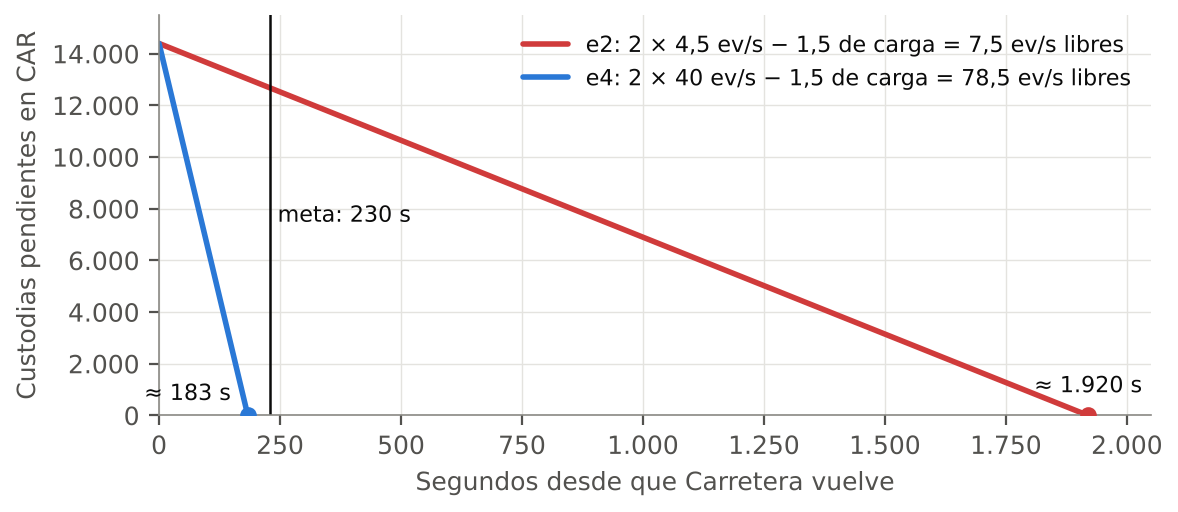
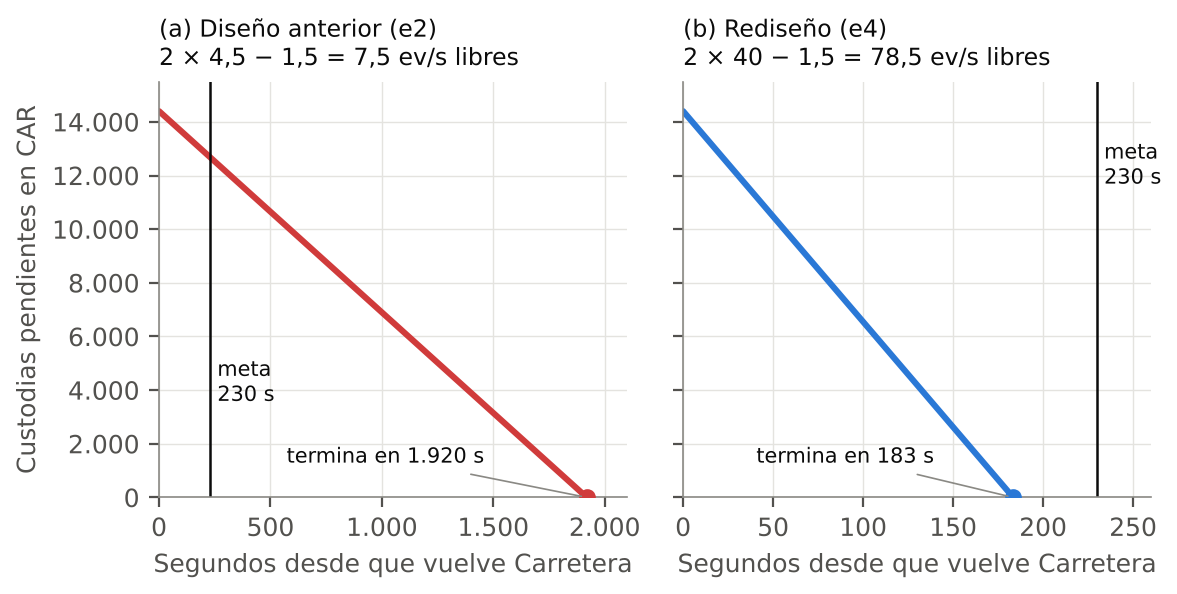
[D4] Figuras de rezago y disponibilidad en dos paneles; beta con semilla 1000
Claude-Session: https://claude.ai/code/session_01ViMf3YAR9bfEnxdr9RZMQp

diff --git a/figures.py b/figures.py
@@ -89,63 +89,76 @@ def chain():
 
 
 def availability():
-    """Figure 2: downtime per year of each structure against the 99.9 % threshold."""
-    data = [  # label, A %, low, high
-        ('e1 · diseño inicial', 99.305, 99.285, 99.325),
-        ('e2 · cálculo a mano\n(sin balanceadores)', 99.948, 99.943, 99.952),
-        ('e2 · con sus balanceadores', 99.549, 99.536, 99.563),
-        ('e2 + T-R1', 99.906, 99.900, 99.912),
-        ('e2 + T-R2', 99.563, 99.549, 99.577),
-        ('e4 · T-R1 + T-R2', 99.957, 99.953, 99.961),
-    ]
+    """Figure: downtime per year of each structure against the 99.9 % threshold, in two panels:
+    (a) before the redesign, (b) contribution of each tactic of iteration 4."""
     hours = lambda a: (100 - a) / 100 * 8760
-    fig, ax = plt.subplots(figsize=(6.4, 2.9))
-    ys = range(len(data))[::-1]
-    for y, (label, a, lo, hi) in zip(ys, data):
-        v = hours(a)
-        if 'mano' in label:
-            color = '#b9b8b3'          # not a real result: ignores the balancers
-        elif lo >= 99.92:
-            color = GOOD
-        elif hi >= 99.9:
-            color = ORANGE             # inconclusive or without margin
-        else:
-            color = BAD
-        ax.barh(y, v, height=0.55, color=color, zorder=2)
-        ax.errorbar(v, y, xerr=[[v - hours(hi)], [hours(lo) - v]], fmt='none', ecolor=INK, elinewidth=0.8, capsize=2, zorder=3)
-        ax.text(max(hours(lo) + 0.8, 10.0), y, f'{es(v)} h  ({es(a, 3)} %)', va='center', fontsize=8, color=INK)
-    ax.set_yticks(list(ys))
-    ax.set_yticklabels([d[0] for d in data])
-    ax.axvline(hours(99.9), color=INK, lw=0.9, ls='-', zorder=4, label='umbral 99,9 % (8,8 h/año)')
-    ax.axvline(hours(99.92), color=INK2, lw=0.8, ls=':', zorder=4, label='con margen 99,92 % (7,0 h/año)')
-    ax.legend(loc='lower right', frameon=False, fontsize=8)
-    ax.set_xlabel('Horas al año con la cadena de levante caída (menos es mejor)')
-    ax.set_xlim(0, 72)
-    ax.grid(axis='x', color=GRID, lw=0.5, zorder=0)
-    ax.tick_params(axis='y', length=0)
+    panels = [
+        ('(a) Antes del rediseño: la redundancia de e2 no alcanza por los balanceadores', [
+            ('e1 · diseño inicial, sin copias', 99.305, 99.285, 99.325),
+            ('e2 · cálculo a mano\n(ignora los balanceadores)', 99.948, 99.943, 99.952),
+            ('e2 · con sus balanceadores', 99.549, 99.536, 99.563)]),
+        ('(b) Rediseño: cada táctica por separado y las dos juntas', [
+            ('e2 (punto de partida)', 99.549, 99.536, 99.563),
+            ('e2 + T-R1\n(balanceadores en pareja)', 99.906, 99.900, 99.912),
+            ('e2 + T-R2\n(dos zonas, β = 0,05)', 99.563, 99.549, 99.577),
+            ('e4 = T-R1 + T-R2', 99.957, 99.953, 99.961)]),
+    ]
+    fig, axes = plt.subplots(2, 1, figsize=(6.4, 5.0), gridspec_kw={'height_ratios': [3, 4], 'hspace': 0.55})
+    for ax, (title, data) in zip(axes, panels):
+        ys = range(len(data))[::-1]
+        for y, (label, a, lo, hi) in zip(ys, data):
+            v = hours(a)
+            if 'mano' in label:
+                color = '#b9b8b3'
+            elif lo >= 99.92:
+                color = GOOD
+            elif hi >= 99.9:
+                color = ORANGE
+            else:
+                color = BAD
+            ax.barh(y, v, height=0.55, color=color, zorder=2)
+            ax.errorbar(v, y, xerr=[[v - hours(hi)], [hours(lo) - v]], fmt='none', ecolor=INK, elinewidth=0.8,
+                        capsize=2, zorder=3)
+            ax.text(max(hours(lo) + 0.8, 10.0), y, f'{es(v)} h al año  ({es(a, 3)} %)', va='center', fontsize=8, color=INK)
+        ax.set_yticks(list(ys))
+        ax.set_yticklabels([d[0] for d in data], fontsize=8)
+        ax.axvline(hours(99.9), color=INK, lw=0.9, zorder=4, label='meta 99,9 % (8,8 h/año)')
+        ax.axvline(hours(99.92), color=INK2, lw=0.8, ls=':', zorder=4, label='con margen 99,92 % (7,0 h/año)')
+        ax.set_xlim(0, 72)
+        ax.grid(axis='x', color=GRID, lw=0.5, zorder=0)
+        ax.tick_params(axis='y', length=0)
+        ax.set_title(title, fontsize=9, loc='left', color=INK, fontweight='bold')
+    axes[1].set_xlabel('Horas al año con la cadena de levante caída (menos es mejor)')
+    axes[1].legend(loc='upper center', bbox_to_anchor=(0.45, -0.3), ncol=2, frameon=False, fontsize=7.5)
     save(fig, 'f2-disponibilidad.png')
 
 
 def backlog():
-    """Figure 3: how the custody backlog drains in e2 and e4 (fluid view, 14 400 events)."""
-    fig, ax = plt.subplots(figsize=(6.4, 2.6))
+    """Figure: how the custody backlog (14 400 events) drains in CAR, one panel per design."""
     n = 14400
-    for label, free, color in [('e2: 2 × 4,5 ev/s − 1,5 de carga = 7,5 ev/s libres', 7.5, BAD),
-                               ('e4: 2 × 40 ev/s − 1,5 de carga = 78,5 ev/s libres', 78.5, BLUE)]:
+    fig, axes = plt.subplots(1, 2, figsize=(6.4, 2.7), sharey=True, gridspec_kw={'wspace': 0.12})
+    for ax, (title, free, color, xmax, step) in zip(axes, [
+            ('(a) Diseño anterior (e2)\n2 × 4,5 − 1,5 = 7,5 ev/s libres', 7.5, BAD, 2100, 500),
+            ('(b) Rediseño (e4)\n2 × 40 − 1,5 = 78,5 ev/s libres', 78.5, BLUE, 260, 50)]):
         t = n / free
-        ax.plot([0, t], [n, 0], color=color, lw=2, solid_capstyle='round', label=label)
+        ax.plot([0, t], [n, 0], color=color, lw=2.2, solid_capstyle='round')
         ax.plot([t], [0], 'o', color=color, ms=5, zorder=3)
-        ax.text(t - 35 if free > 10 else t, 600 if free > 10 else 900, f'≈ {es(t, 0)} s', ha='right' if free > 10 else 'center', fontsize=8, color=INK)
-    ax.axvline(230, color=INK, lw=0.9)
-    ax.text(245, 7500, 'meta: 230 s', fontsize=8, color=INK)
-    ax.set_xlim(0, 2050)
-    ax.set_ylim(0, 15500)
-    ax.set_xlabel('Segundos desde que Carretera vuelve')
-    ax.set_ylabel('Custodias pendientes en CAR')
-    ax.yaxis.set_major_formatter(matplotlib.ticker.FuncFormatter(lambda v, _: es(v, 0)))
-    ax.xaxis.set_major_formatter(matplotlib.ticker.FuncFormatter(lambda v, _: es(v, 0)))
-    ax.grid(color=GRID, lw=0.5, zorder=0)
-    ax.legend(frameon=False, fontsize=8, loc='upper right')
+        ax.axvline(230, color=INK, lw=0.9)
+        if free < 10:
+            ax.text(230 + xmax * 0.015, 5200, 'meta\n230 s', fontsize=7.5, color=INK, va='top')
+        else:
+            ax.text(230 + xmax * 0.015, 13300, 'meta\n230 s', fontsize=7.5, color=INK, va='top')
+        ax.annotate(f'termina en {es(t, 0)} s', (t, 0), xytext=(t * 0.76, 1500), ha='right', va='center',
+                    fontsize=7.5, color=INK, arrowprops=dict(arrowstyle='-', color=MUTED, lw=0.6))
+        ax.set_xlim(0, xmax)
+        ax.set_xticks(range(0, xmax + 1, step))
+        ax.set_ylim(0, 15500)
+        ax.set_title(title, fontsize=8.5, loc='left', color=INK)
+        ax.set_xlabel('Segundos desde que vuelve Carretera')
+        ax.xaxis.set_major_formatter(matplotlib.ticker.FuncFormatter(lambda v, _: es(v, 0)))
+        ax.grid(color=GRID, lw=0.5, zorder=0)
+    axes[0].set_ylabel('Custodias pendientes en CAR')
+    axes[0].yaxis.set_major_formatter(matplotlib.ticker.FuncFormatter(lambda v, _: es(v, 0)))
     save(fig, 'f3-rezago.png')
 
 
@@ -205,17 +218,17 @@ def capacity():
 
 
 def beta():
-    """Figure 6: P1 against the common-cause fraction beta (e4 structure)."""
-    xs = [0.0, 0.02, 0.05, 0.08, 0.09, 0.10, 0.11, 0.12, 0.15]
-    m = [99.999, 99.982, 99.955, 99.928, 99.914, 99.908, 99.901, 99.893, 99.863]
-    lo = [99.999, 99.980, 99.950, 99.923, 99.908, 99.901, 99.893, 99.886, 99.857]
-    hi = [100.0, 99.985, 99.960, 99.933, 99.920, 99.915, 99.908, 99.900, 99.870]
+    """Figure: P1 against the common-cause fraction beta (e4 structure, seed 1000 for every point)."""
+    xs = [0.0, 0.05, 0.08, 0.10, 0.11, 0.12, 0.15, 0.20]
+    m = [99.999, 99.957, 99.927, 99.906, 99.897, 99.887, 99.862, 99.826]
+    lo = [99.998, 99.953, 99.922, 99.900, 99.889, 99.880, 99.853, 99.815]
+    hi = [100.0, 99.961, 99.932, 99.912, 99.904, 99.893, 99.871, 99.836]
     fig, ax = plt.subplots(figsize=(6.4, 2.6))
     sweep(ax, xs, m, lo, hi, BLUE)
     ax.axhline(99.9, color=INK, lw=0.9)
     ax.axhline(99.92, color=INK2, lw=0.7, ls=':')
-    ax.text(0.152, 99.903, 'umbral 99,9 %', ha='right', fontsize=8, color=INK)
-    ax.text(0.152, 99.923, 'con margen ≥ 99,92 %', ha='right', fontsize=8, color=INK2)
+    ax.text(0.205, 99.903, 'meta 99,9 %', ha='right', fontsize=8, color=INK)
+    ax.text(0.205, 99.923, 'con margen ≥ 99,92 %', ha='right', fontsize=8, color=INK2)
     ax.axvline(0.05, color=BLUE, lw=0.7, ls='--')
     ax.text(0.052, 99.99, 'rediseño\nβ = 0,05', fontsize=8, color=INK, va='top')
     ax.axvline(0.10, color=MUTED, lw=0.7, ls='--')
@@ -224,9 +237,10 @@ def beta():
     ax.set_ylabel('Disponibilidad (%)')
     ax.xaxis.set_major_formatter(matplotlib.ticker.FuncFormatter(lambda v, _: es(v, 2)))
     ax.yaxis.set_major_formatter(matplotlib.ticker.FuncFormatter(lambda v, _: es(v, 2)))
-    ax.set_xlim(-0.003, 0.155)
-    ax.set_ylim(99.85, 100.005)
-    ax.set_yticks([99.86, 99.88, 99.90, 99.92, 99.94, 99.96, 99.98, 100.0])
+    ax.set_xlim(-0.004, 0.207)
+    ax.set_ylim(99.81, 100.005)
+    ax.set_xticks([0, 0.05, 0.10, 0.15, 0.20])
+    ax.set_yticks([99.82, 99.86, 99.90, 99.94, 99.98])
     ax.grid(color=GRID, lw=0.5, zorder=0)
     save(fig, 'f6-beta.png')
 
